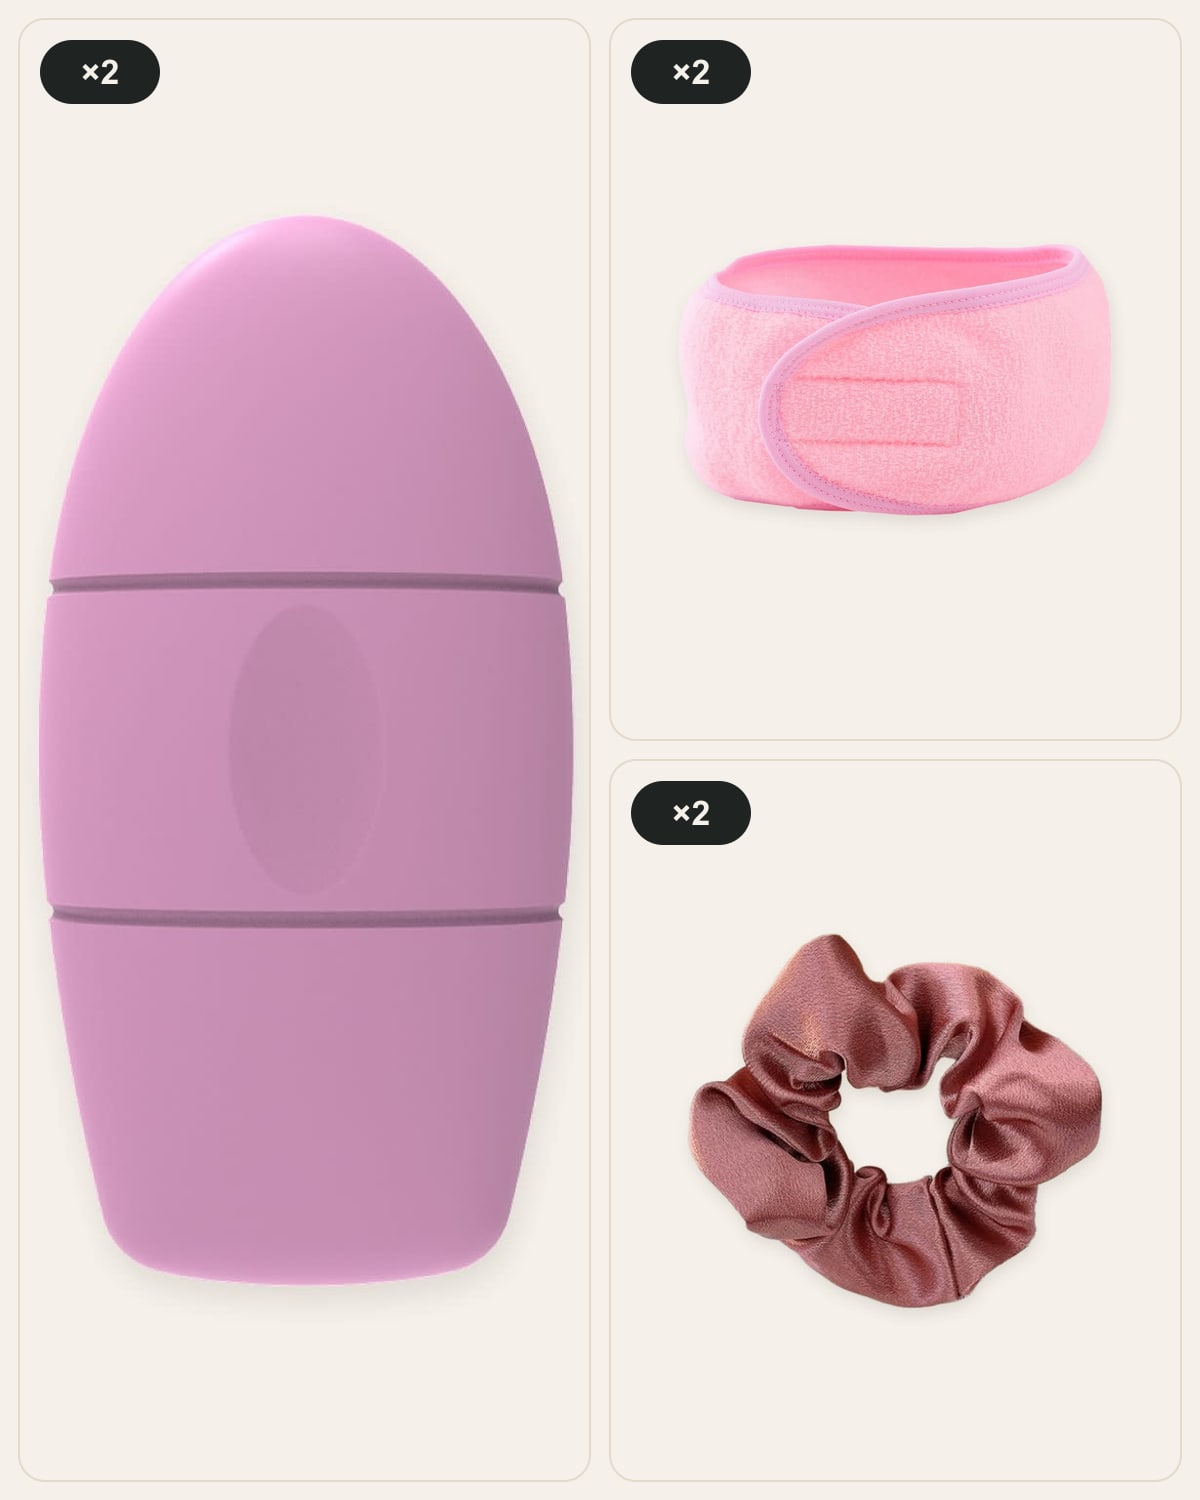
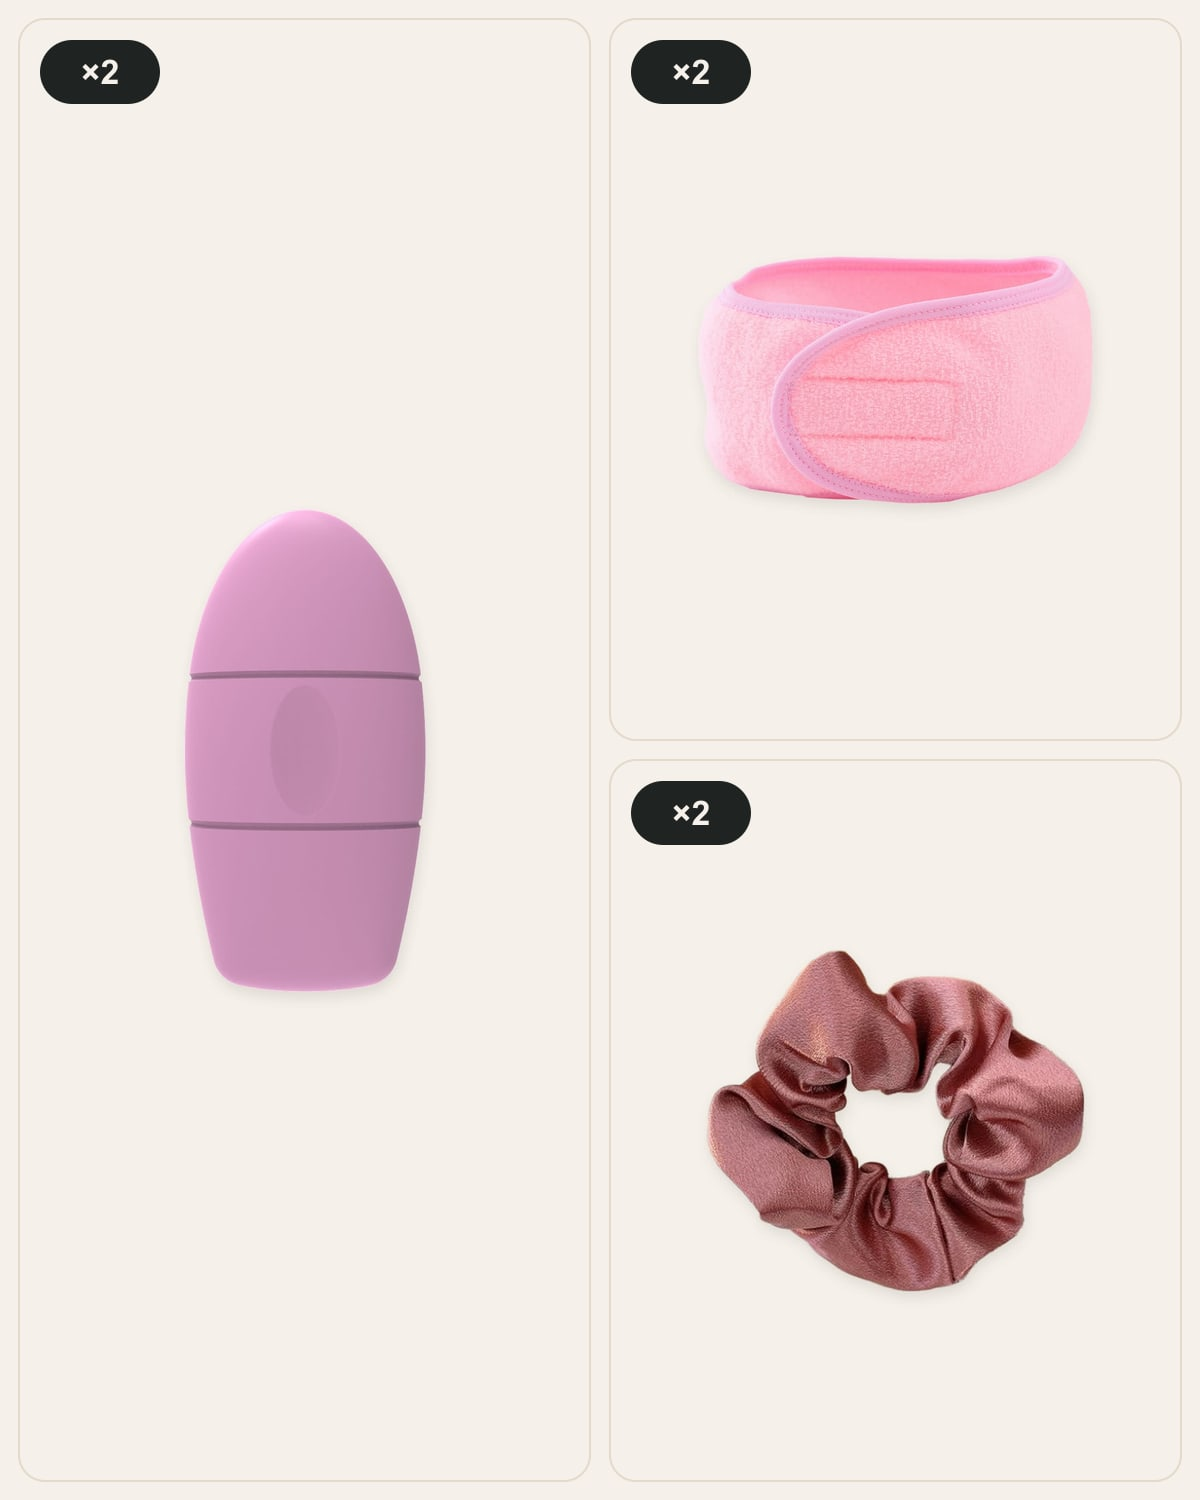
Set mosaics: show whole products in each tile (v2)

diff --git a/prisma/seed.ts b/prisma/seed.ts
@@ -1059,7 +1059,7 @@ function setRecipe(slug: string): string {
 const LEGACY_RECIPE_PREFIX = "SET: order each component on CJ";
 
 const SET_HERO_BASE = "https://cmacbeauty.ca/sets";
-const SET_HERO_VERSION = 1;
+const SET_HERO_VERSION = 2;
 const isDerivedCloudinary = (u: string) => u.startsWith("https://res.cloudinary.com/") && u.includes("/cmac/products/");
 /** True when a set's images were all generated by this seed (CJ photos, component Cloudinary photos, set mosaics). */
 function onlyDerivedSetPhotos(images: unknown): boolean {
